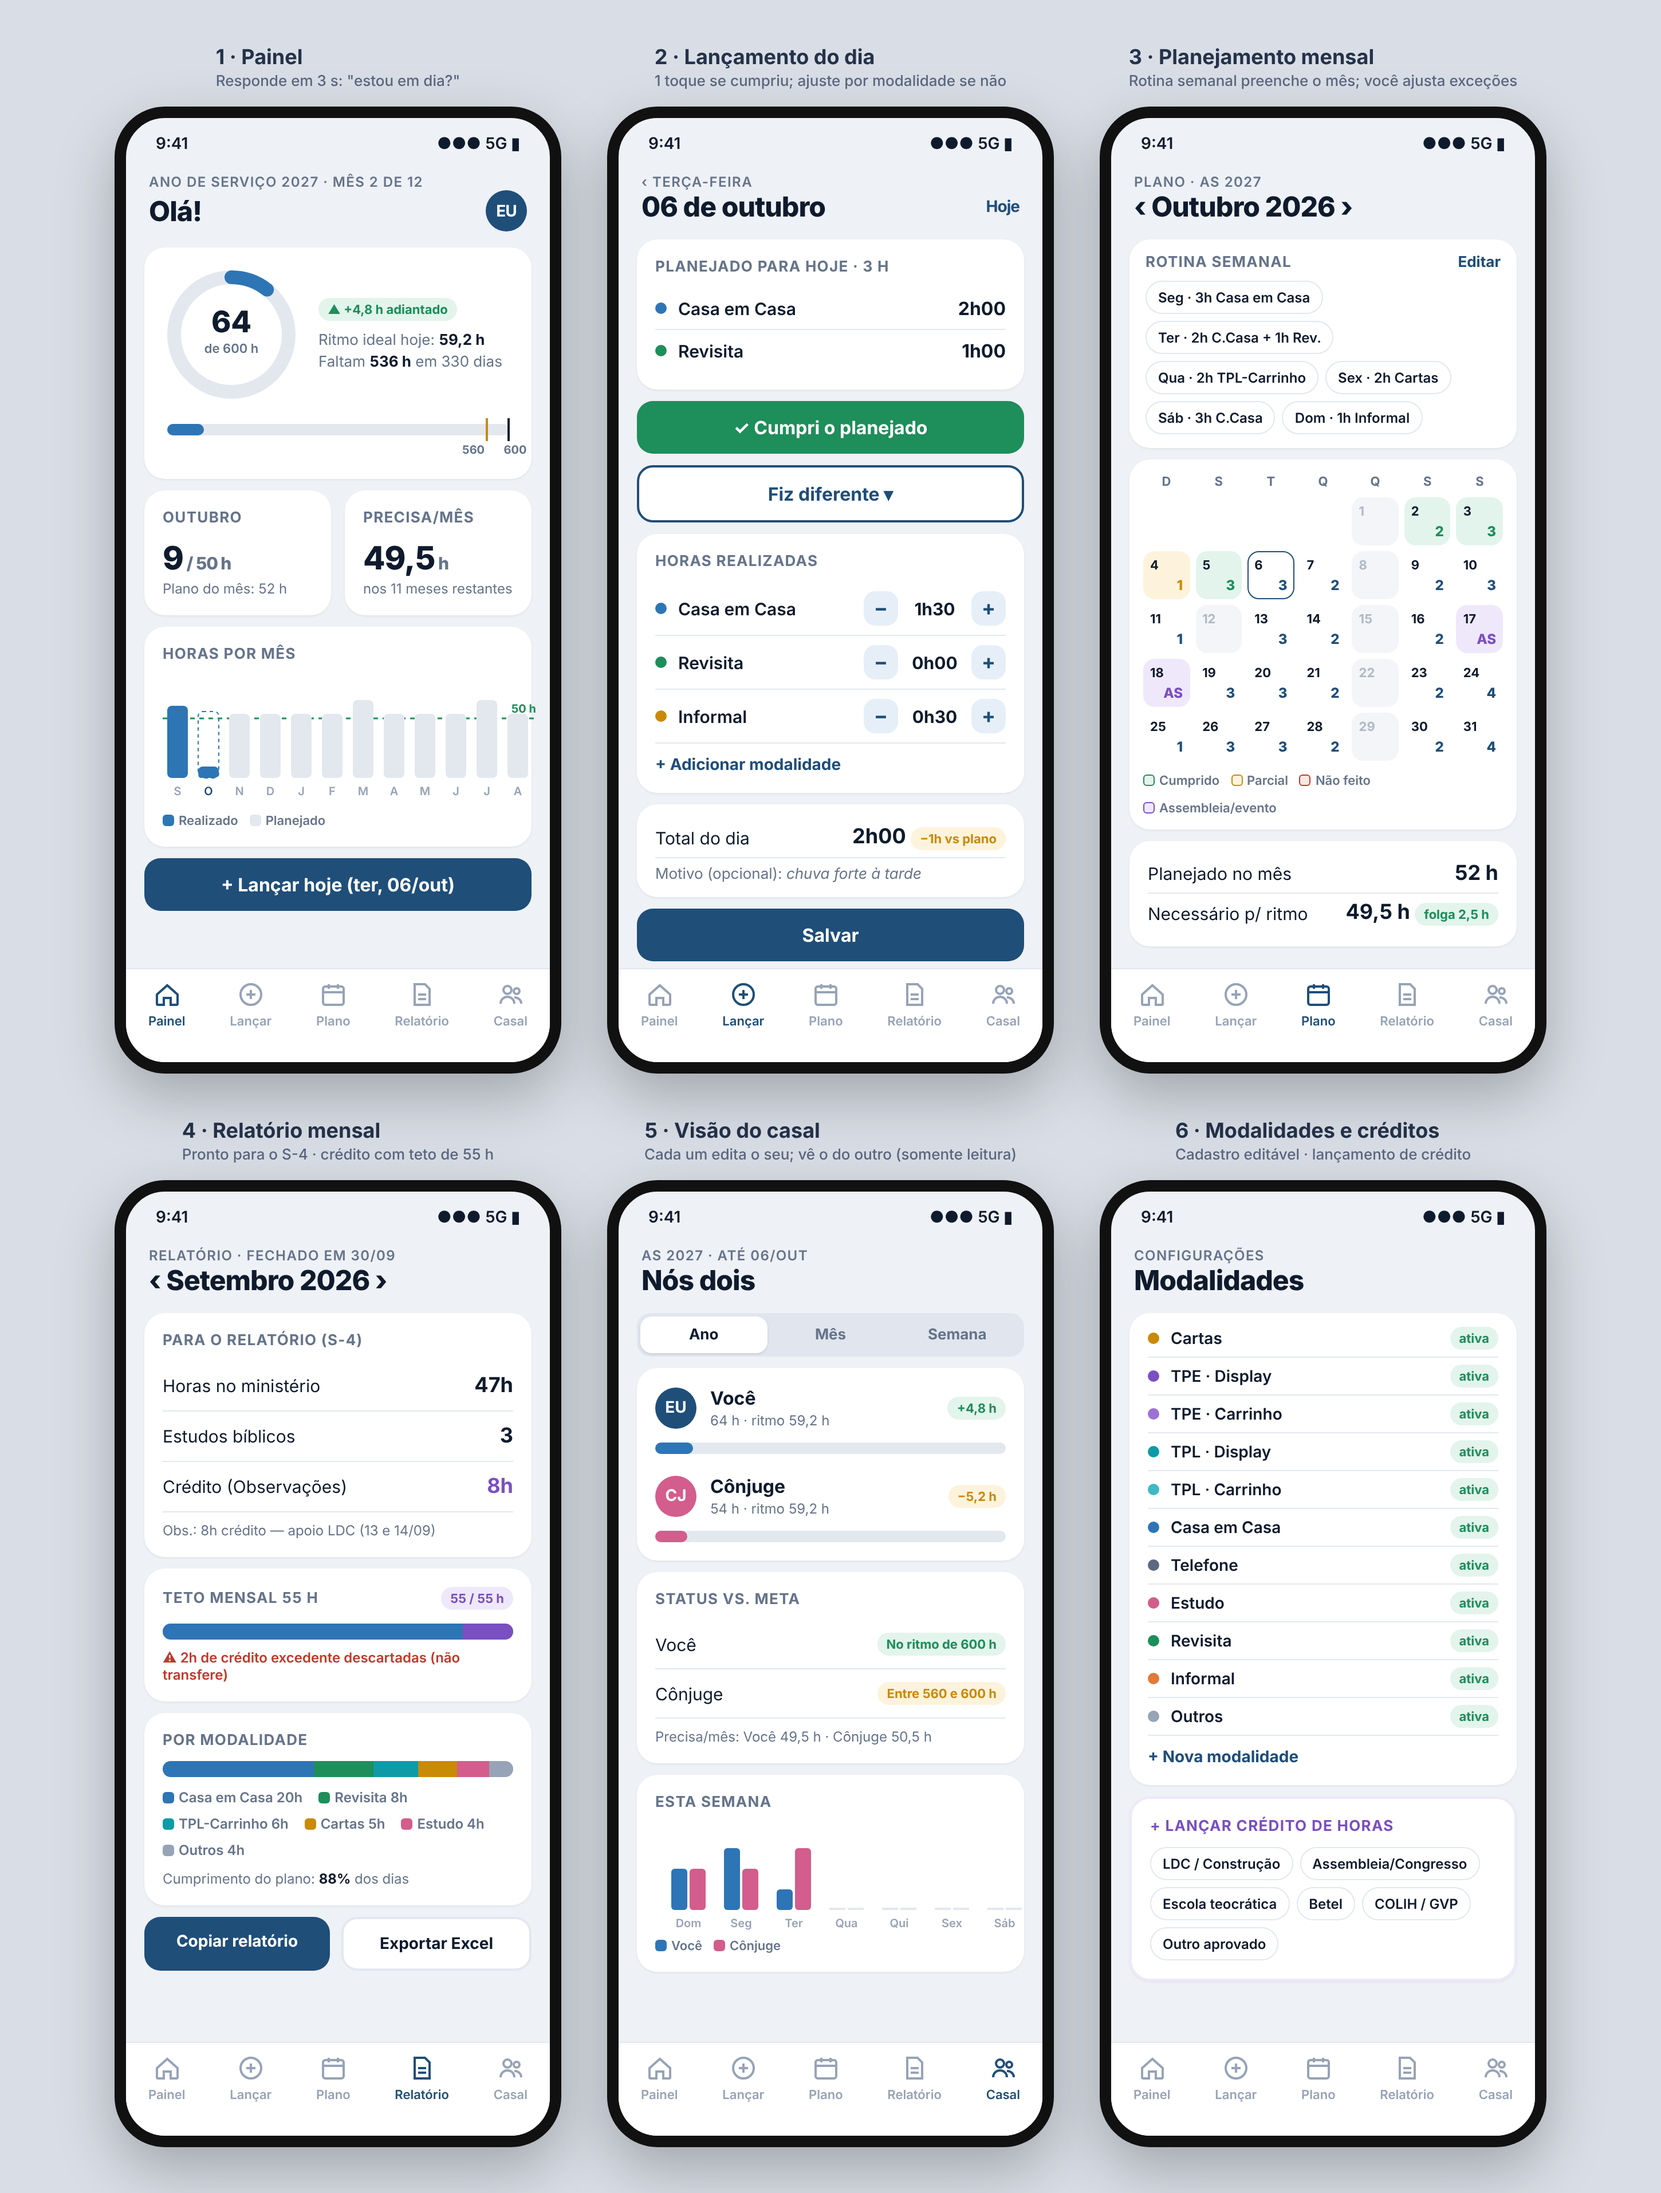
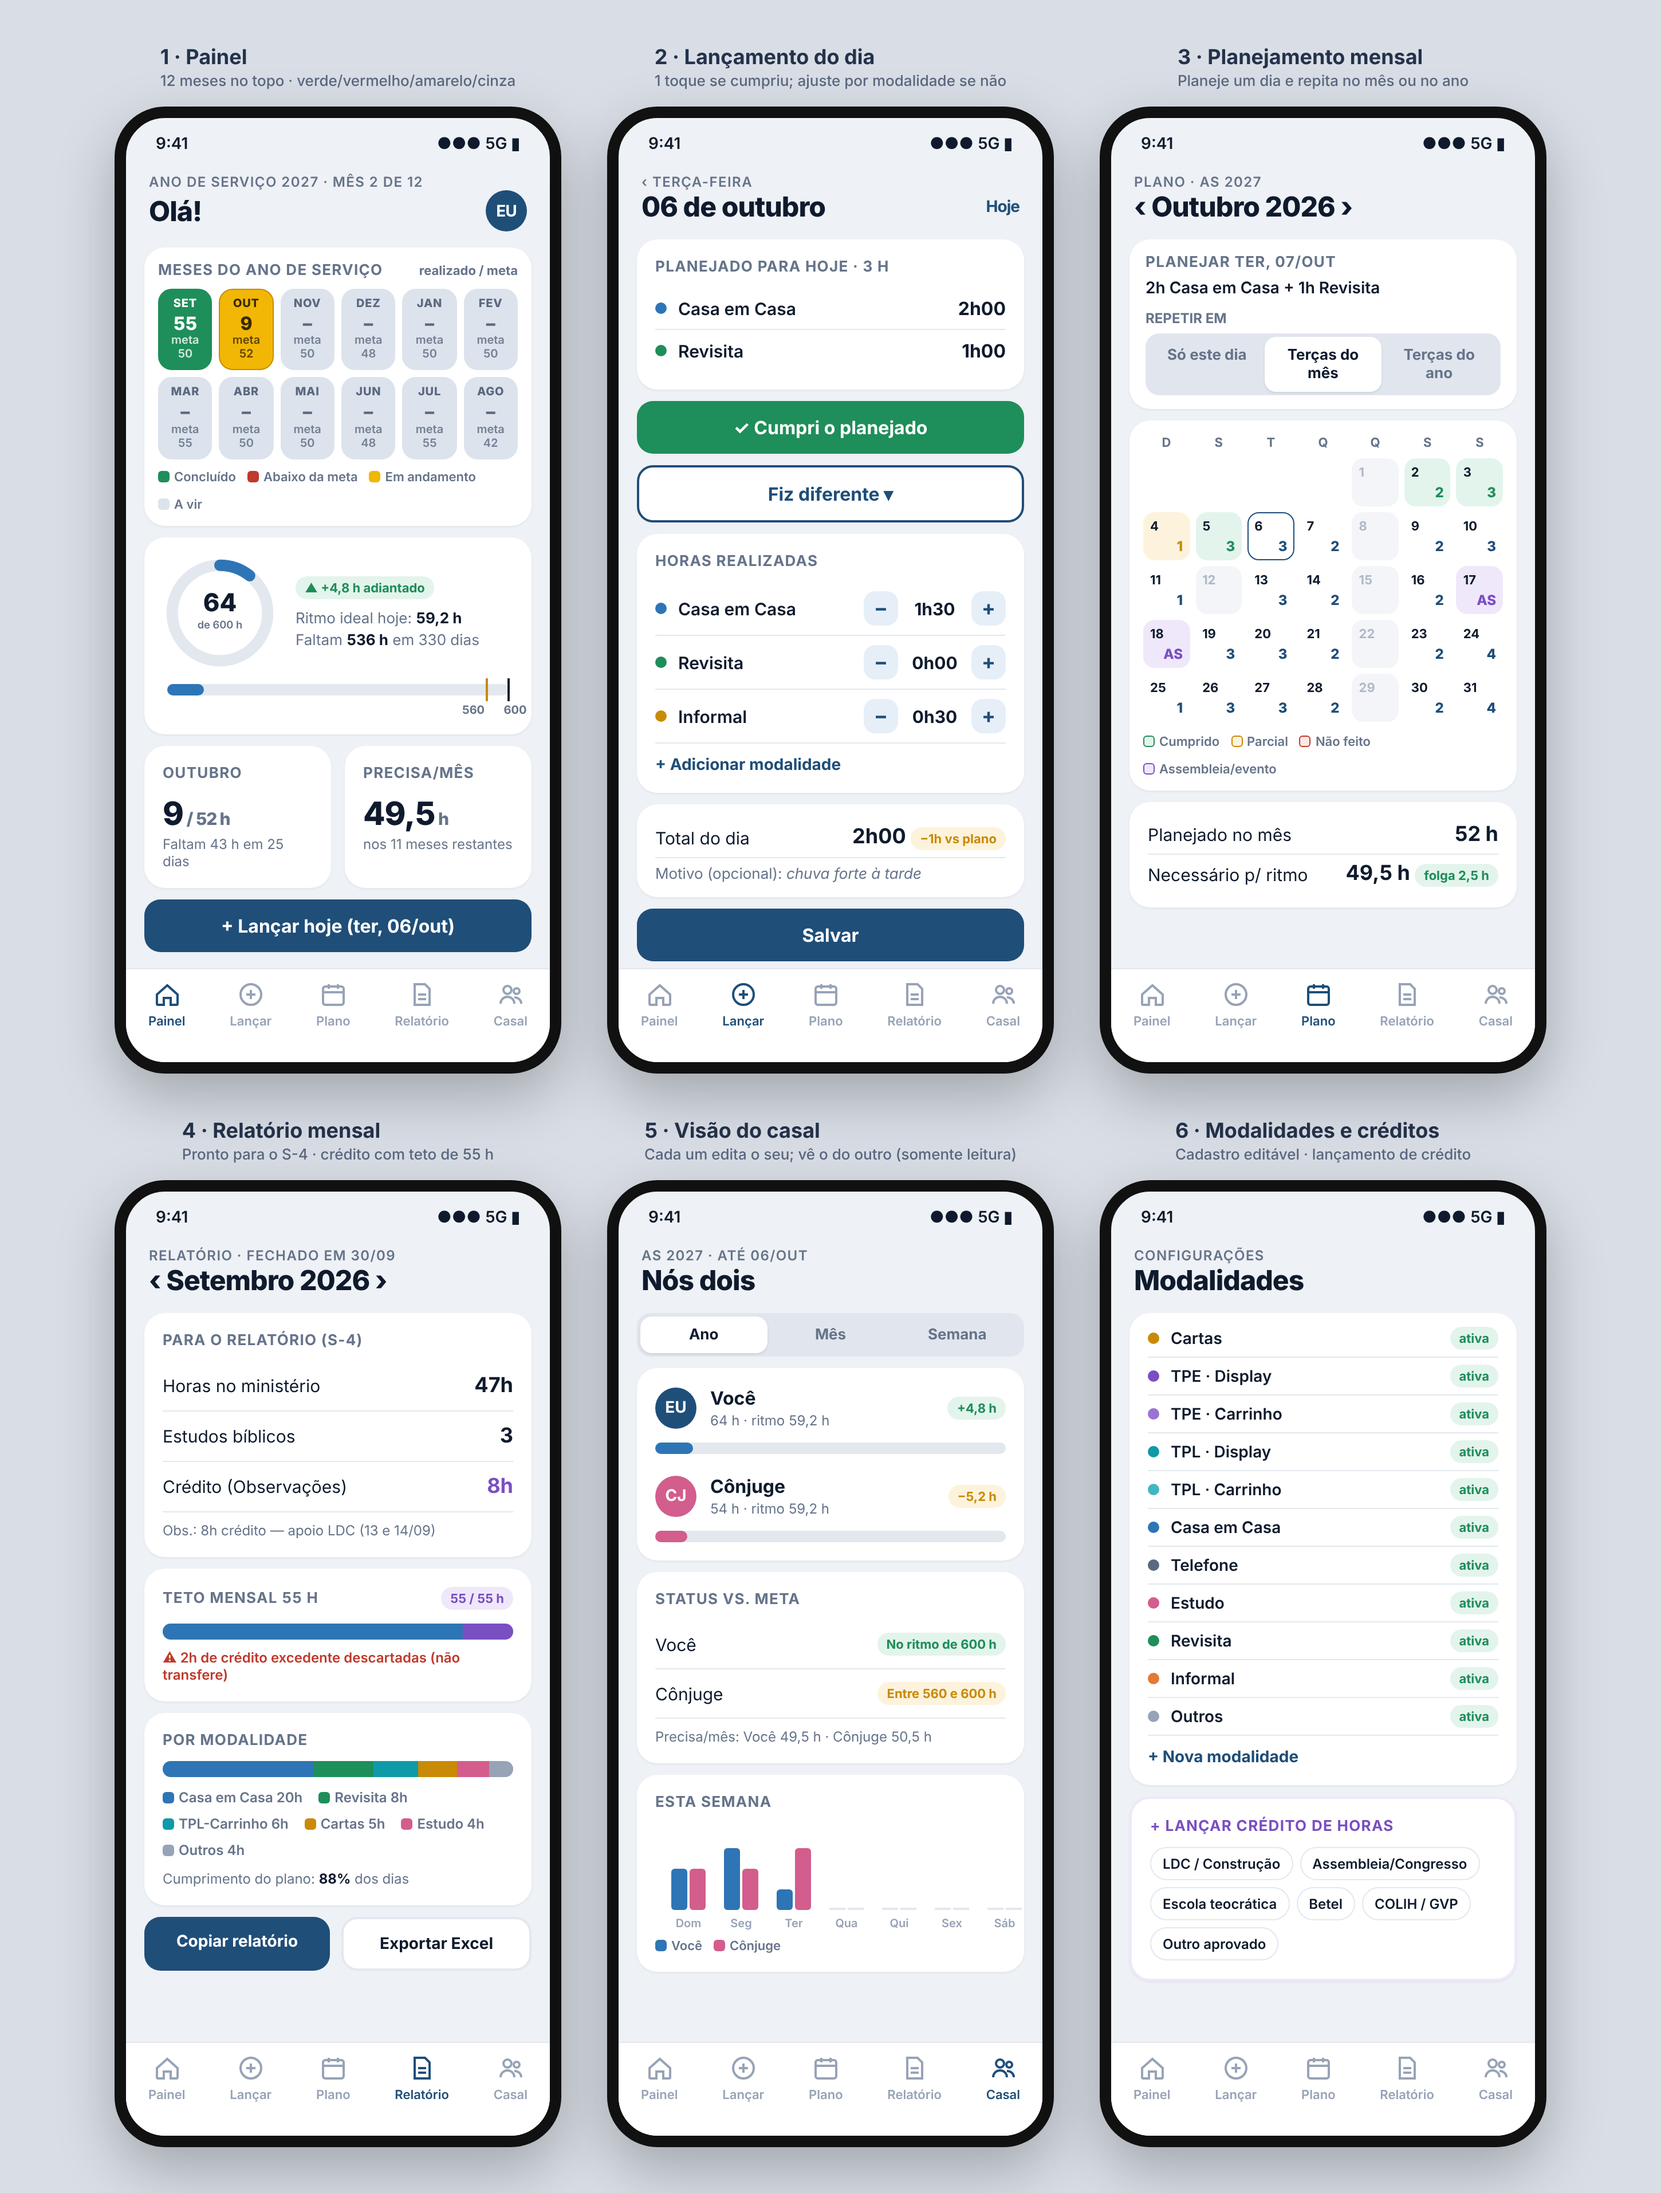
Layout: 12 cards de meses no painel e planejamento com repetição
Claude-Session: https://claude.ai/code/session_01Cma8yHqd1apQPuuomsZ5DD

diff --git a/docs/layout/mockups.html b/docs/layout/mockups.html
@@ -70,13 +70,22 @@ body{font-family:Inter,system-ui,sans-serif;background:#D9DEE6;color:var(--ink);
 .legend{display:flex;gap:10px;flex-wrap:wrap;font-size:11px;color:var(--muted);font-weight:600}
 .legend span{display:flex;align-items:center;gap:4px}
 .legend i{width:10px;height:10px;border-radius:3px;display:inline-block}
+.months{display:grid;grid-template-columns:repeat(6,1fr);gap:6px}
+.m{border-radius:12px;padding:6px 4px 7px;text-align:center;border:1.5px solid transparent}
+.m .t{font-size:10px;font-weight:800;letter-spacing:.04em}
+.m .r{font-size:16px;font-weight:800;line-height:1.15;margin-top:2px}
+.m .g{font-size:10px;font-weight:600;opacity:.8}
+.m.s-ok{background:var(--ok);color:#fff}
+.m.s-bad{background:var(--bad);color:#fff}
+.m.s-now{background:#F2B705;color:#3A2A00;border-color:#C98A06}
+.m.s-fut{background:#DCE3EC;color:#5B6880}
 </style>
 </head>
 <body>
 
 <!-- ================= 1. PAINEL ================= -->
 <div class="wrap" id="s1">
-<div class="label">1 · Painel<small>Responde em 3 s: "estou em dia?"</small></div>
+<div class="label">1 · Painel<small>12 meses no topo · verde/vermelho/amarelo/cinza</small></div>
 <div class="phone">
   <div class="status"><span>9:41</span><span>●●● 5G ▮</span></div>
   <div class="top">
@@ -84,9 +93,14 @@ body{font-family:Inter,system-ui,sans-serif;background:#D9DEE6;color:var(--ink);
     <h1>Olá! <span class="avatar">EU</span></h1>
   </div>
   <div class="body">
+    <div class="card" style="padding:12px">
+      <div style="display:flex;justify-content:space-between;align-items:center;margin-bottom:8px"><h3 style="margin:0">Meses do ano de serviço</h3><span style="font-size:11px;font-weight:700;color:var(--muted)">realizado / meta</span></div>
+      <div class="months"><div class="m s-ok"><div class="t">SET</div><div class="r">55</div><div class="g">meta 50</div></div><div class="m s-now"><div class="t">OUT</div><div class="r">9</div><div class="g">meta 52</div></div><div class="m s-fut"><div class="t">NOV</div><div class="r">–</div><div class="g">meta 50</div></div><div class="m s-fut"><div class="t">DEZ</div><div class="r">–</div><div class="g">meta 48</div></div><div class="m s-fut"><div class="t">JAN</div><div class="r">–</div><div class="g">meta 50</div></div><div class="m s-fut"><div class="t">FEV</div><div class="r">–</div><div class="g">meta 50</div></div><div class="m s-fut"><div class="t">MAR</div><div class="r">–</div><div class="g">meta 55</div></div><div class="m s-fut"><div class="t">ABR</div><div class="r">–</div><div class="g">meta 50</div></div><div class="m s-fut"><div class="t">MAI</div><div class="r">–</div><div class="g">meta 50</div></div><div class="m s-fut"><div class="t">JUN</div><div class="r">–</div><div class="g">meta 48</div></div><div class="m s-fut"><div class="t">JUL</div><div class="r">–</div><div class="g">meta 55</div></div><div class="m s-fut"><div class="t">AGO</div><div class="r">–</div><div class="g">meta 42</div></div></div>
+      <div class="legend" style="margin-top:8px"><span><i style="background:var(--ok)"></i>Concluído</span><span><i style="background:var(--bad)"></i>Abaixo da meta</span><span><i style="background:#F2B705"></i>Em andamento</span><span><i style="background:#DCE3EC"></i>A vir</span></div>
+    </div>
     <div class="card">
       <div style="display:flex;align-items:center;gap:16px">
-        <svg width="120" height="120" viewBox="0 0 120 120">
+        <svg width="100" height="100" viewBox="0 0 120 120">
           <circle cx="60" cy="60" r="50" fill="none" stroke="#E3E8EF" stroke-width="12"/>
           <circle cx="60" cy="60" r="50" fill="none" stroke="#2E75B6" stroke-width="12" stroke-linecap="round" stroke-dasharray="33.5 314" transform="rotate(-90 60 60)"/>
           <text x="60" y="58" text-anchor="middle" font-size="26" font-weight="800" fill="#0F1B2D">64</text>
@@ -97,7 +111,7 @@ body{font-family:Inter,system-ui,sans-serif;background:#D9DEE6;color:var(--ink);
           <div style="font-size:13px;color:var(--muted);margin-top:8px;line-height:1.45">Ritmo ideal hoje: <b style="color:var(--ink)">59,2 h</b><br>Faltam <b style="color:var(--ink)">536 h</b> em 330 dias</div>
         </div>
       </div>
-      <div style="margin:18px 4px 22px">
+      <div style="margin:12px 4px 18px">
         <div class="bar"><i style="width:10.7%"></i>
           <div class="mk" style="left:93.3%;background:var(--warn)"><span style="transform:translateX(-110%)">560</span></div>
           <div class="mk" style="left:99.6%"><span style="transform:translateX(-20%)">600</span></div>
@@ -105,30 +119,8 @@ body{font-family:Inter,system-ui,sans-serif;background:#D9DEE6;color:var(--ink);
       </div>
     </div>
     <div class="row">
-      <div class="card"><h3>Outubro</h3><div class="big">9<span style="font-size:15px;color:var(--muted)"> / 50 h</span></div><div class="sub">Plano do mês: 52 h</div></div>
+      <div class="card"><h3>Outubro</h3><div class="big">9<span style="font-size:15px;color:var(--muted)"> / 52 h</span></div><div class="sub">Faltam 43 h em 25 dias</div></div>
       <div class="card"><h3>Precisa/mês</h3><div class="big">49,5<span style="font-size:15px;color:var(--muted)"> h</span></div><div class="sub">nos 11 meses restantes</div></div>
-    </div>
-    <div class="card">
-      <h3>Horas por mês</h3>
-      <svg width="326" height="110" viewBox="0 0 326 110">
-        <line x1="0" y1="38" x2="326" y2="38" stroke="#1E8E5A" stroke-dasharray="4 4" stroke-width="1.5"/>
-        <text x="326" y="33" text-anchor="end" font-size="10" font-weight="700" fill="#1E8E5A">50 h</text>
-        <g font-size="10" font-weight="600" fill="#97A3B6" text-anchor="middle">
-          <rect x="4" y="27" width="18" height="63" rx="4" fill="#2E75B6"/><text x="13" y="105">S</text>
-          <rect x="31" y="80" width="18" height="10" rx="4" fill="#2E75B6"/><rect x="31" y="32" width="18" height="58" rx="4" fill="none" stroke="#2E75B6" stroke-dasharray="3 3"/><text x="40" y="105" fill="#1F4E79">O</text>
-          <rect x="58" y="34" width="18" height="56" rx="4" fill="#E3E8EF"/><text x="67" y="105">N</text>
-          <rect x="85" y="34" width="18" height="56" rx="4" fill="#E3E8EF"/><text x="94" y="105">D</text>
-          <rect x="112" y="34" width="18" height="56" rx="4" fill="#E3E8EF"/><text x="121" y="105">J</text>
-          <rect x="139" y="34" width="18" height="56" rx="4" fill="#E3E8EF"/><text x="148" y="105">F</text>
-          <rect x="166" y="22" width="18" height="68" rx="4" fill="#E3E8EF"/><text x="175" y="105">M</text>
-          <rect x="193" y="34" width="18" height="56" rx="4" fill="#E3E8EF"/><text x="202" y="105">A</text>
-          <rect x="220" y="34" width="18" height="56" rx="4" fill="#E3E8EF"/><text x="229" y="105">M</text>
-          <rect x="247" y="34" width="18" height="56" rx="4" fill="#E3E8EF"/><text x="256" y="105">J</text>
-          <rect x="274" y="22" width="18" height="68" rx="4" fill="#E3E8EF"/><text x="283" y="105">J</text>
-          <rect x="301" y="34" width="18" height="56" rx="4" fill="#E3E8EF"/><text x="310" y="105">A</text>
-        </g>
-      </svg>
-      <div class="legend" style="margin-top:6px"><span><i style="background:#2E75B6"></i>Realizado</span><span><i style="background:#E3E8EF"></i>Planejado</span></div>
     </div>
     <div class="btn brand">+ Lançar hoje (ter, 06/out)</div>
   </div>
@@ -184,7 +176,7 @@ body{font-family:Inter,system-ui,sans-serif;background:#D9DEE6;color:var(--ink);
 
 <!-- ================= 3. PLANEJAMENTO ================= -->
 <div class="wrap" id="s3">
-<div class="label">3 · Planejamento mensal<small>Rotina semanal preenche o mês; você ajusta exceções</small></div>
+<div class="label">3 · Planejamento mensal<small>Planeje um dia e repita no mês ou no ano</small></div>
 <div class="phone">
   <div class="status"><span>9:41</span><span>●●● 5G ▮</span></div>
   <div class="top">
@@ -193,12 +185,10 @@ body{font-family:Inter,system-ui,sans-serif;background:#D9DEE6;color:var(--ink);
   </div>
   <div class="body">
     <div class="card" style="padding:12px 14px">
-      <div style="display:flex;justify-content:space-between;align-items:center;margin-bottom:8px"><h3 style="margin:0">Rotina semanal</h3><span style="font-size:13px;font-weight:700;color:var(--brand)">Editar</span></div>
-      <div style="display:flex;flex-wrap:wrap;gap:6px">
-        <span class="chip">Seg · 3h Casa em Casa</span><span class="chip">Ter · 2h C.Casa + 1h Rev.</span>
-        <span class="chip">Qua · 2h TPL-Carrinho</span><span class="chip">Sex · 2h Cartas</span>
-        <span class="chip">Sáb · 3h C.Casa</span><span class="chip">Dom · 1h Informal</span>
-      </div>
+      <h3 style="margin-bottom:6px">Planejar ter, 07/out</h3>
+      <div style="font-size:14px;font-weight:600;margin-bottom:10px">2h Casa em Casa + 1h Revisita</div>
+      <div style="font-size:12px;font-weight:700;color:var(--muted);margin-bottom:6px">REPETIR EM</div>
+      <div class="seg"><div>Só este dia</div><div class="on">Terças do mês</div><div>Terças do ano</div></div>
     </div>
     <div class="card" style="padding:12px">
       <div class="cal">
